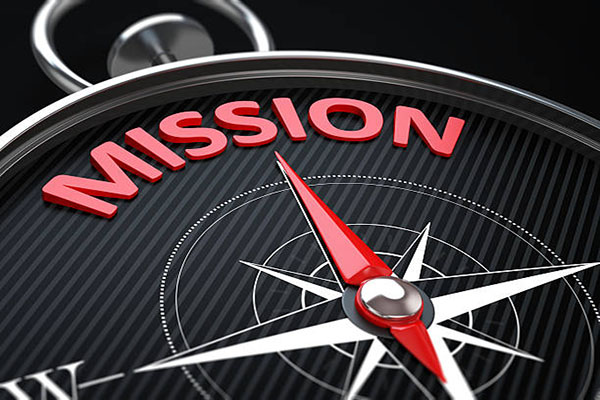
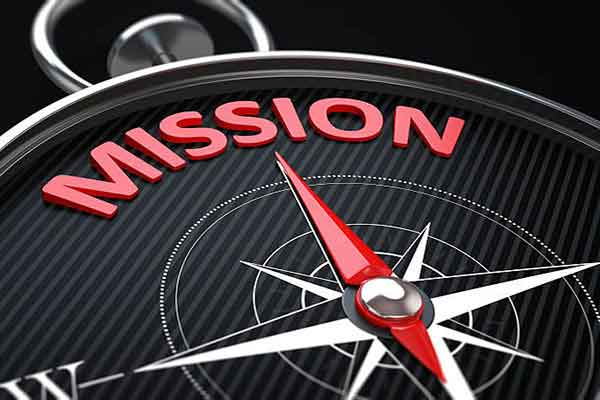
compress image for supporting images.

diff --git a/contact.html b/contact.html
@@ -115,25 +115,27 @@
                   <p>Jl. Pejagalan Raya No. 85K, Pekojan, DKI Jakarta, 11240</p>
                 </div>
               </div>
-              <div class="col-md-4">
-                <div class="info-box">
-                  <i class="bx bx-envelope"></i>
-                  <h3>Email Us</h3>
-                  <p>steventjoa89@gmail.com</p>
-                </div>
-              </div>
-              <div class="col-md-4">
+              <div class="col-md-6">
                 <div class="info-box">
                   <i class="bx bx-phone-call"></i>
                   <h3>Call Us</h3>
-                  <p>+6221 6904272</p>
+                  <p>021 690-4272</p>
+                  <p>021 692-6058</p>
                 </div>
               </div>
-              <div class="col-md-4">
+              <div class="col-md-6">
                 <div class="info-box">
                   <i class="bx bxl-whatsapp"></i>
                   <h3>Whatsapp Us</h3>
-                  <p>+62819 058 75858</p>
+                  <p>0816 130-6408</p>
+                  <p>0819 058-75858</p>
+                </div>
+              </div>
+              <div class="col-md-12">
+                <div class="info-box">
+                  <i class="bx bx-envelope"></i>
+                  <h3>Email Us</h3>
+                  <p>steven.tjoa@cahayasinarmakmur.com</p>
                 </div>
               </div>
             </div>
@@ -152,8 +154,8 @@
               <div class="form-group mt-3">
                 <input type="text" class="form-control" name="subject" id="subject" placeholder="Subject" required>
               </div>
-              <div class="form-group mt-3">
-                <textarea class="form-control" name="message" rows="5" placeholder="Message" required></textarea>
+              <div class="form-group mt-2">
+                <textarea class="form-control" name="message" rows="16" placeholder="Message" required></textarea>
               </div>
               <div class="my-3">
                 <div class="loading">Loading</div>
